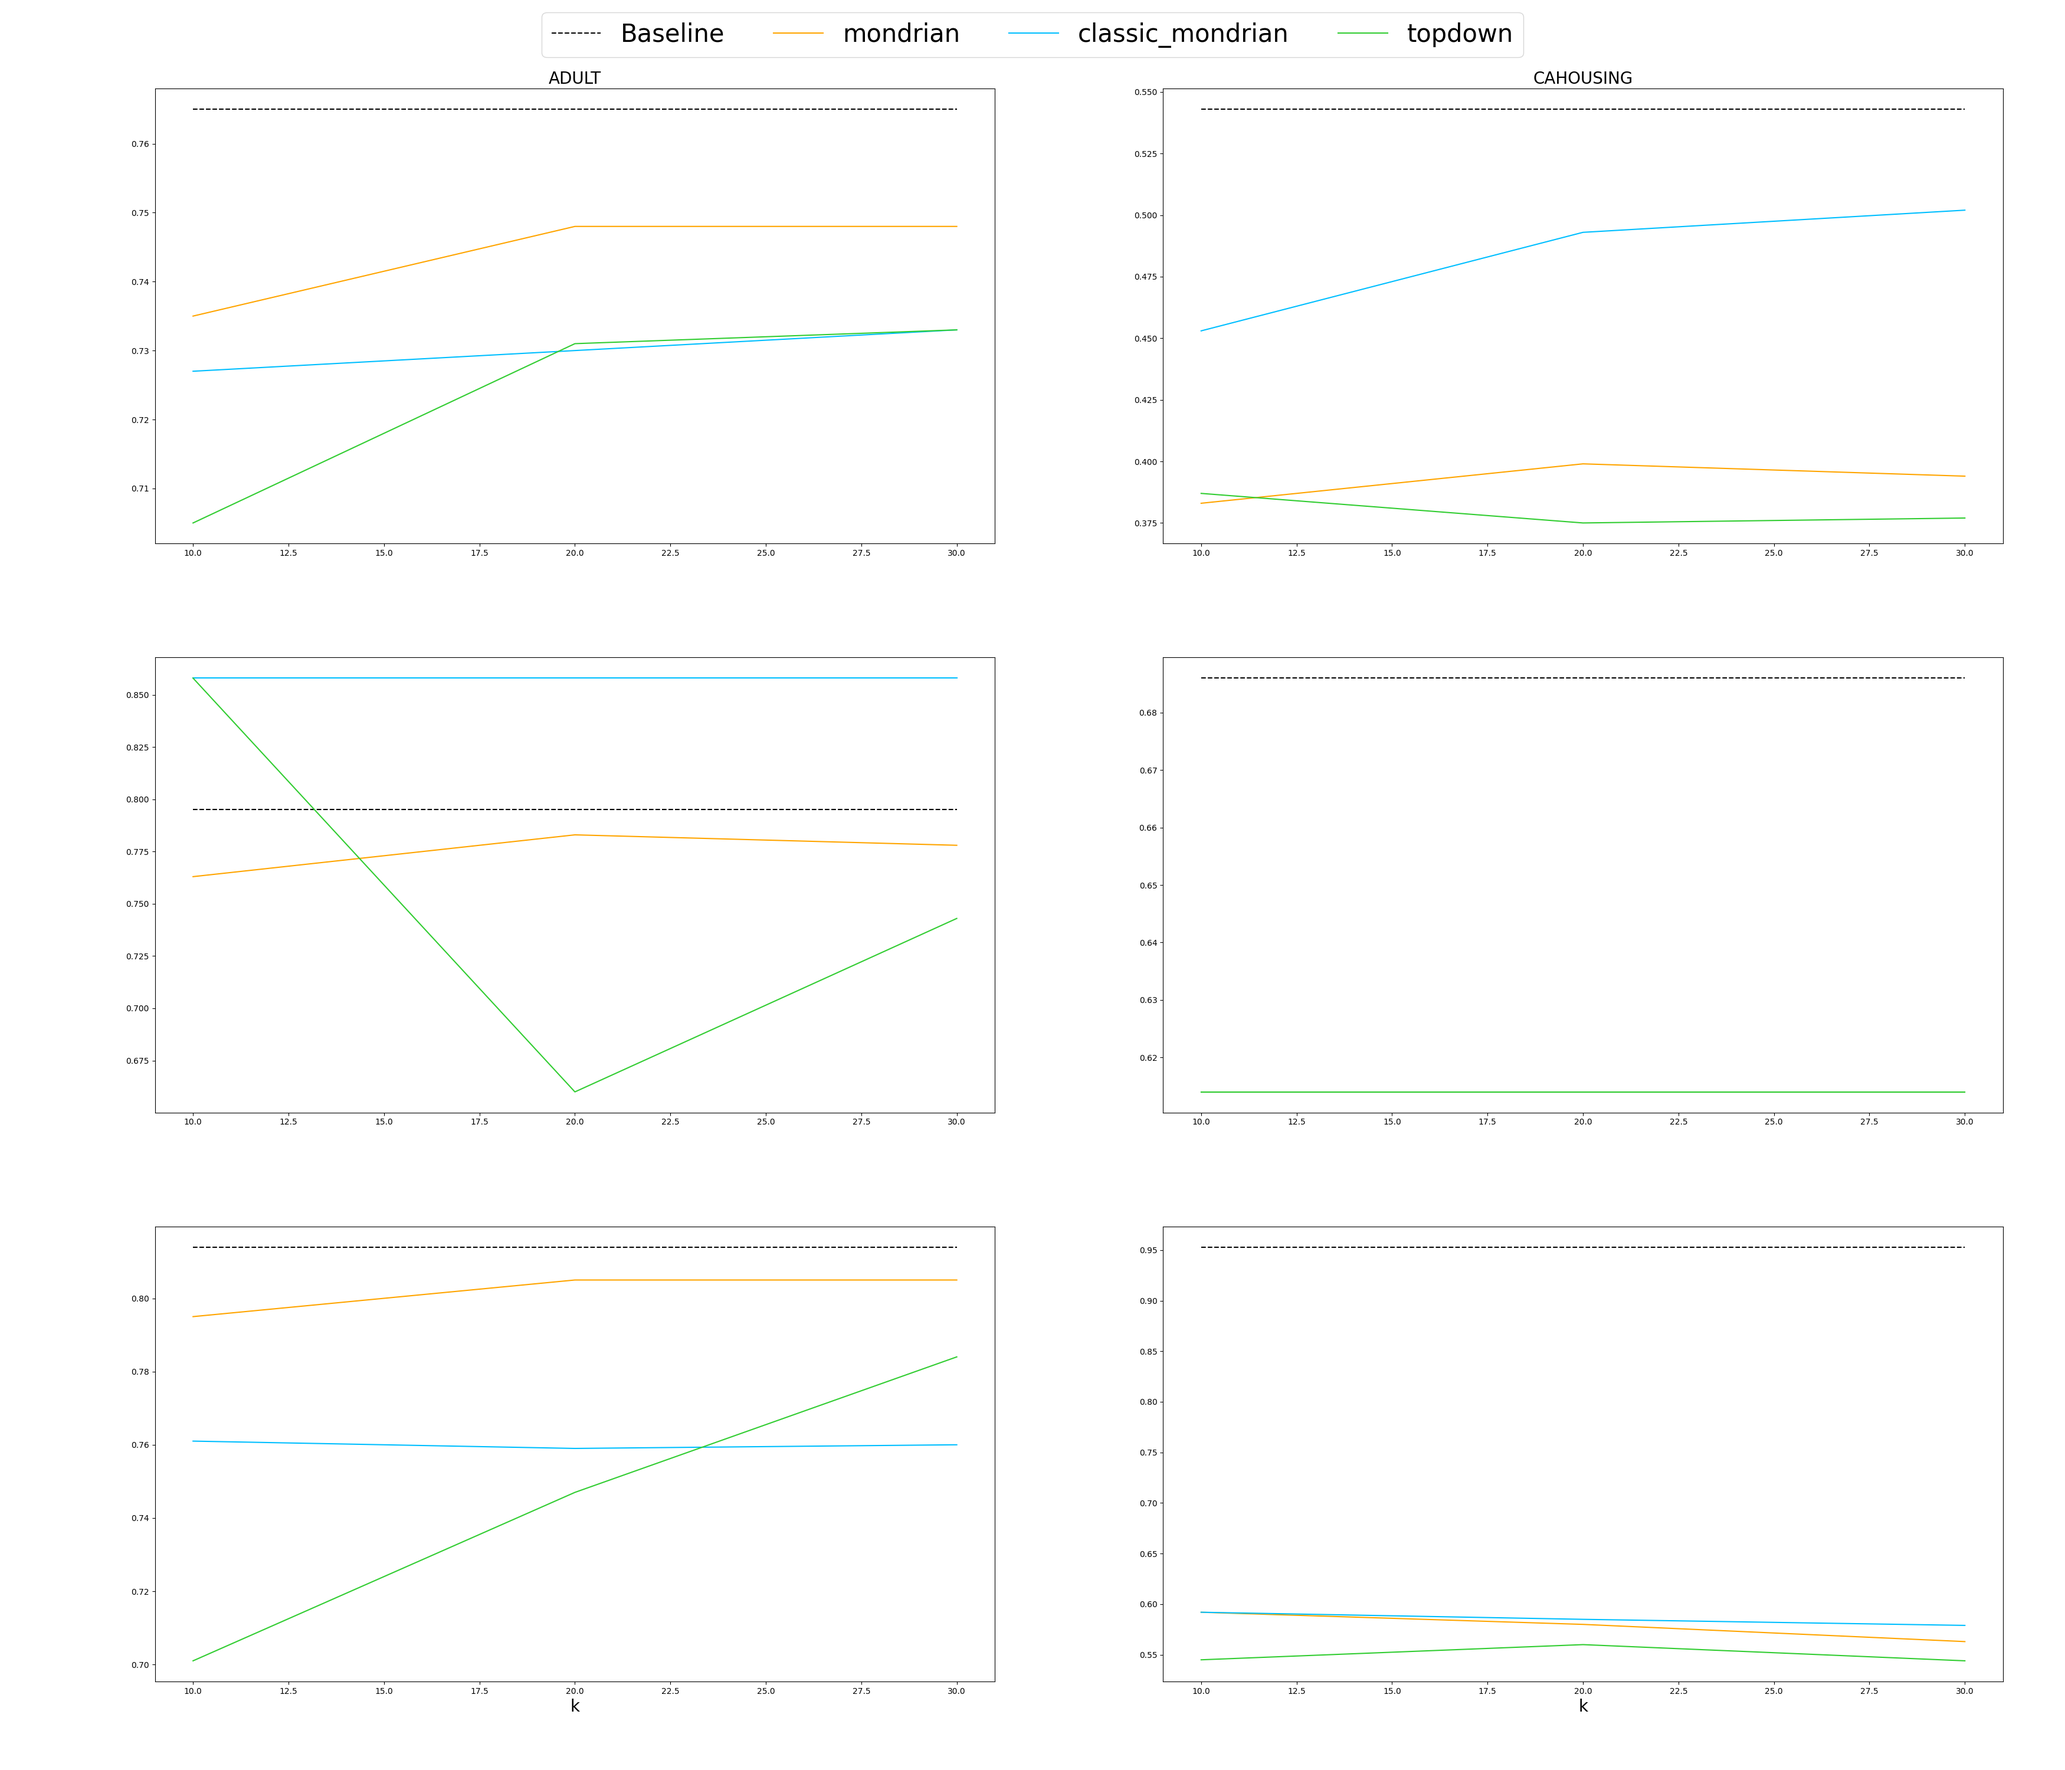
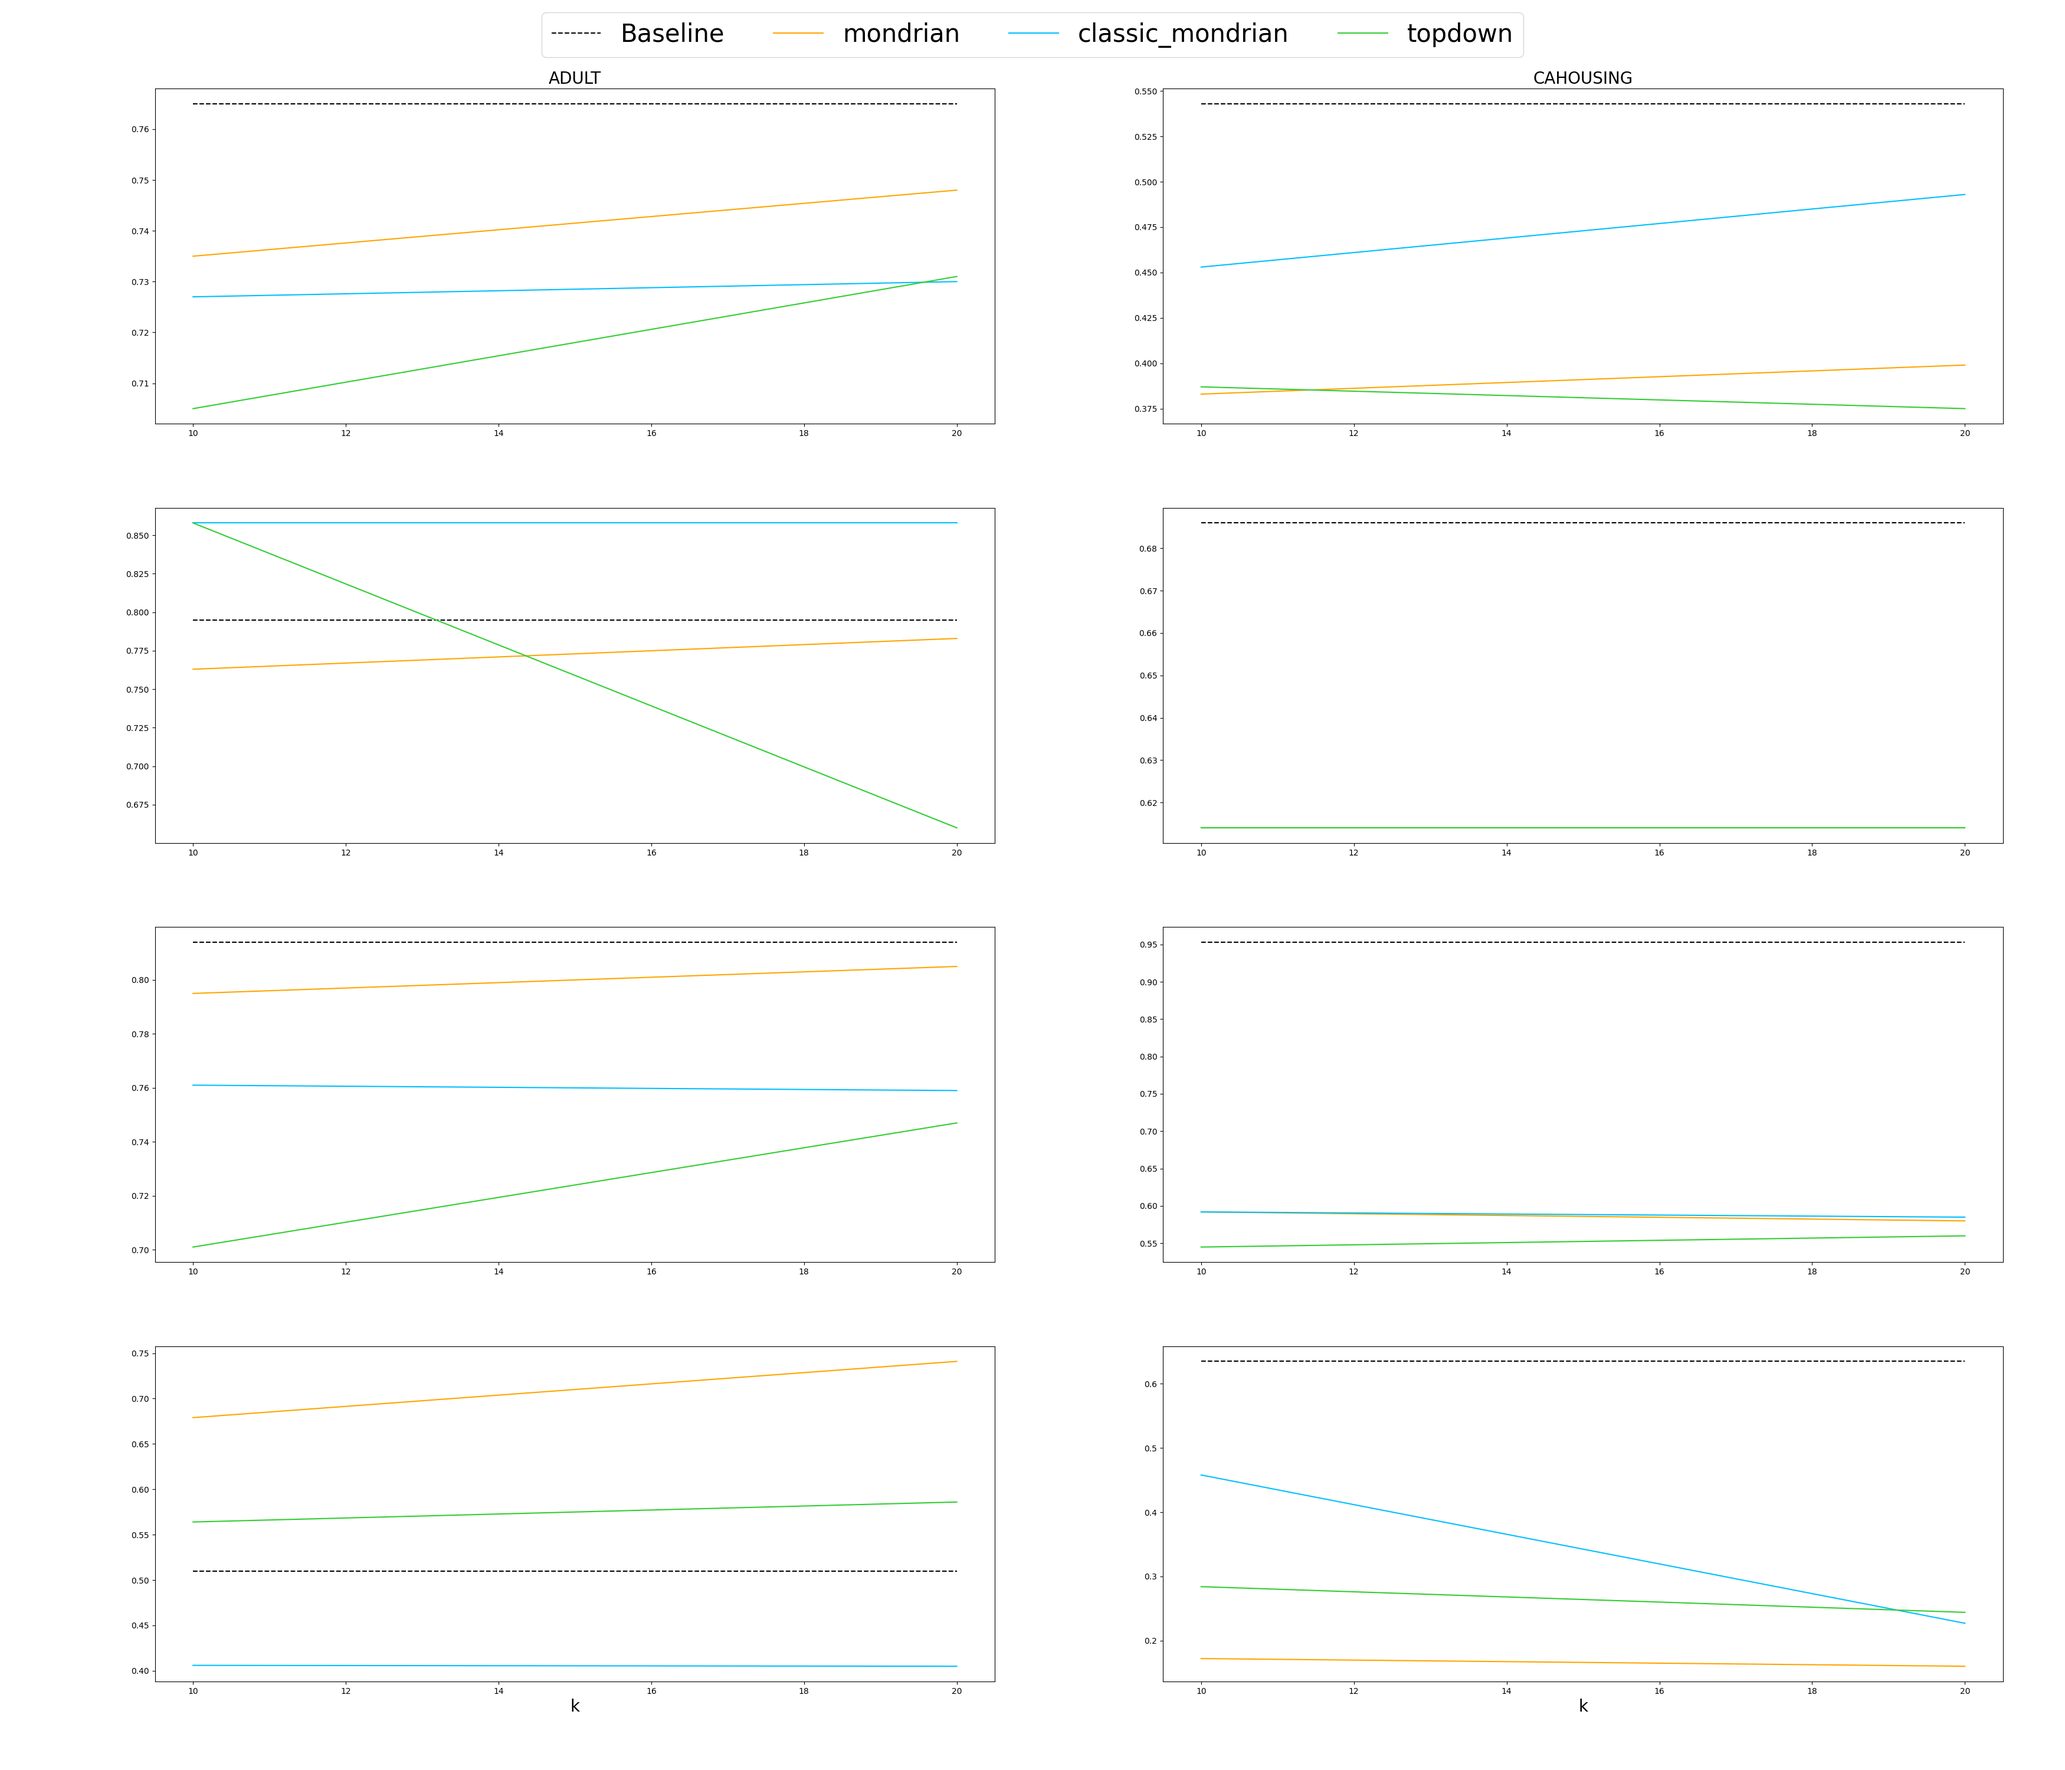
added gaussian naive bayes

diff --git a/models/classifiers.py b/models/classifiers.py
@@ -8,6 +8,28 @@ from sklearn.neighbors import KNeighborsClassifier
 from sklearn.metrics import classification_report, f1_score
 from algorithms import read_tree
 import numpy as np
+from sklearn.naive_bayes import GaussianNB
+
+
+class GNB:
+    def __init__(self):
+        self.model = GaussianNB()
+        
+    def fit(self, inputs, targets):
+        self.model = self.model.fit(inputs, targets)
+
+    def eval(self, inputs, targets, class_names=[]):
+        if len(class_names) == 0:
+            class_names = None
+        preds = self.model.predict(inputs)
+        return f1_score(targets, preds, labels=np.unique(preds), average='weighted')
+        # return classification_report(targets, preds, target_names=class_names, output_dict=True)
+
+    def save_model(self, path):
+        pickle.dump(self.model, open(path, 'wb'))
+
+    def load_model(self, path):
+        self.model = pickle.load(open(path, 'rb'))
 
 class KNN:
     """

diff --git a/visualize.py b/visualize.py
@@ -12,10 +12,10 @@ from algorithms import read_tree
 
 methods = ['mondrian', 'classic_mondrian', 'topdown'] #['cluster', 'datafly']
 dataset = ['adult', 'cahousing']#, 'cmc', 'mgm', 'informs']  # italia
-k_array = [i for i in range(10, 40, 10)]
+k_array = [i for i in range(10, 30, 10)]
 
 metrics = ['ncp', 'cav', 'dm']
-ml_metrics = ['knn', 'svm', 'rf']
+ml_metrics = ['knn', 'svm', 'rf', 'gnb'] 
 lcolors = ['orange', 'deepskyblue', 'limegreen', 'magenta']
 
 metric_names = [
@@ -26,7 +26,8 @@ metric_names = [
 ml_metric_names = [
     'KNN',
     'SVMs',
-    'RFs'
+    'RFs',
+    'GNB'
 ]
 
 def sub_plot(result, dataset, methods, metrics, label_x, label_y, figname):

diff --git a/models/__init__.py b/models/__init__.py
@@ -1,7 +1,7 @@
 import numpy as np
 import pandas as pd
 from .classifiers import (
-    KNN, SVM, RFs, one_hot_encoding, 
+    KNN, SVM, RFs,GNB, one_hot_encoding, 
     replace_generalization, embed_target)
 from utils.types import ClassifierModel
 
@@ -12,6 +12,8 @@ def get_classifier(name, num_classes=None):
         return SVM()
     if name == ClassifierModel.RF:
         return RFs()
+    if name == ClassifierModel.GNB:
+        return GNB()
 
 def classifier_evaluation(
     classifier_name,

diff --git a/utils/types.py b/utils/types.py
@@ -52,6 +52,7 @@ class ClassifierModel(Enum):
     SVM = 'svm'
     RF = 'rf'
     KNN = 'knn'
+    GNB = 'gnb'
 
     def __str__(self):
         return self.value
